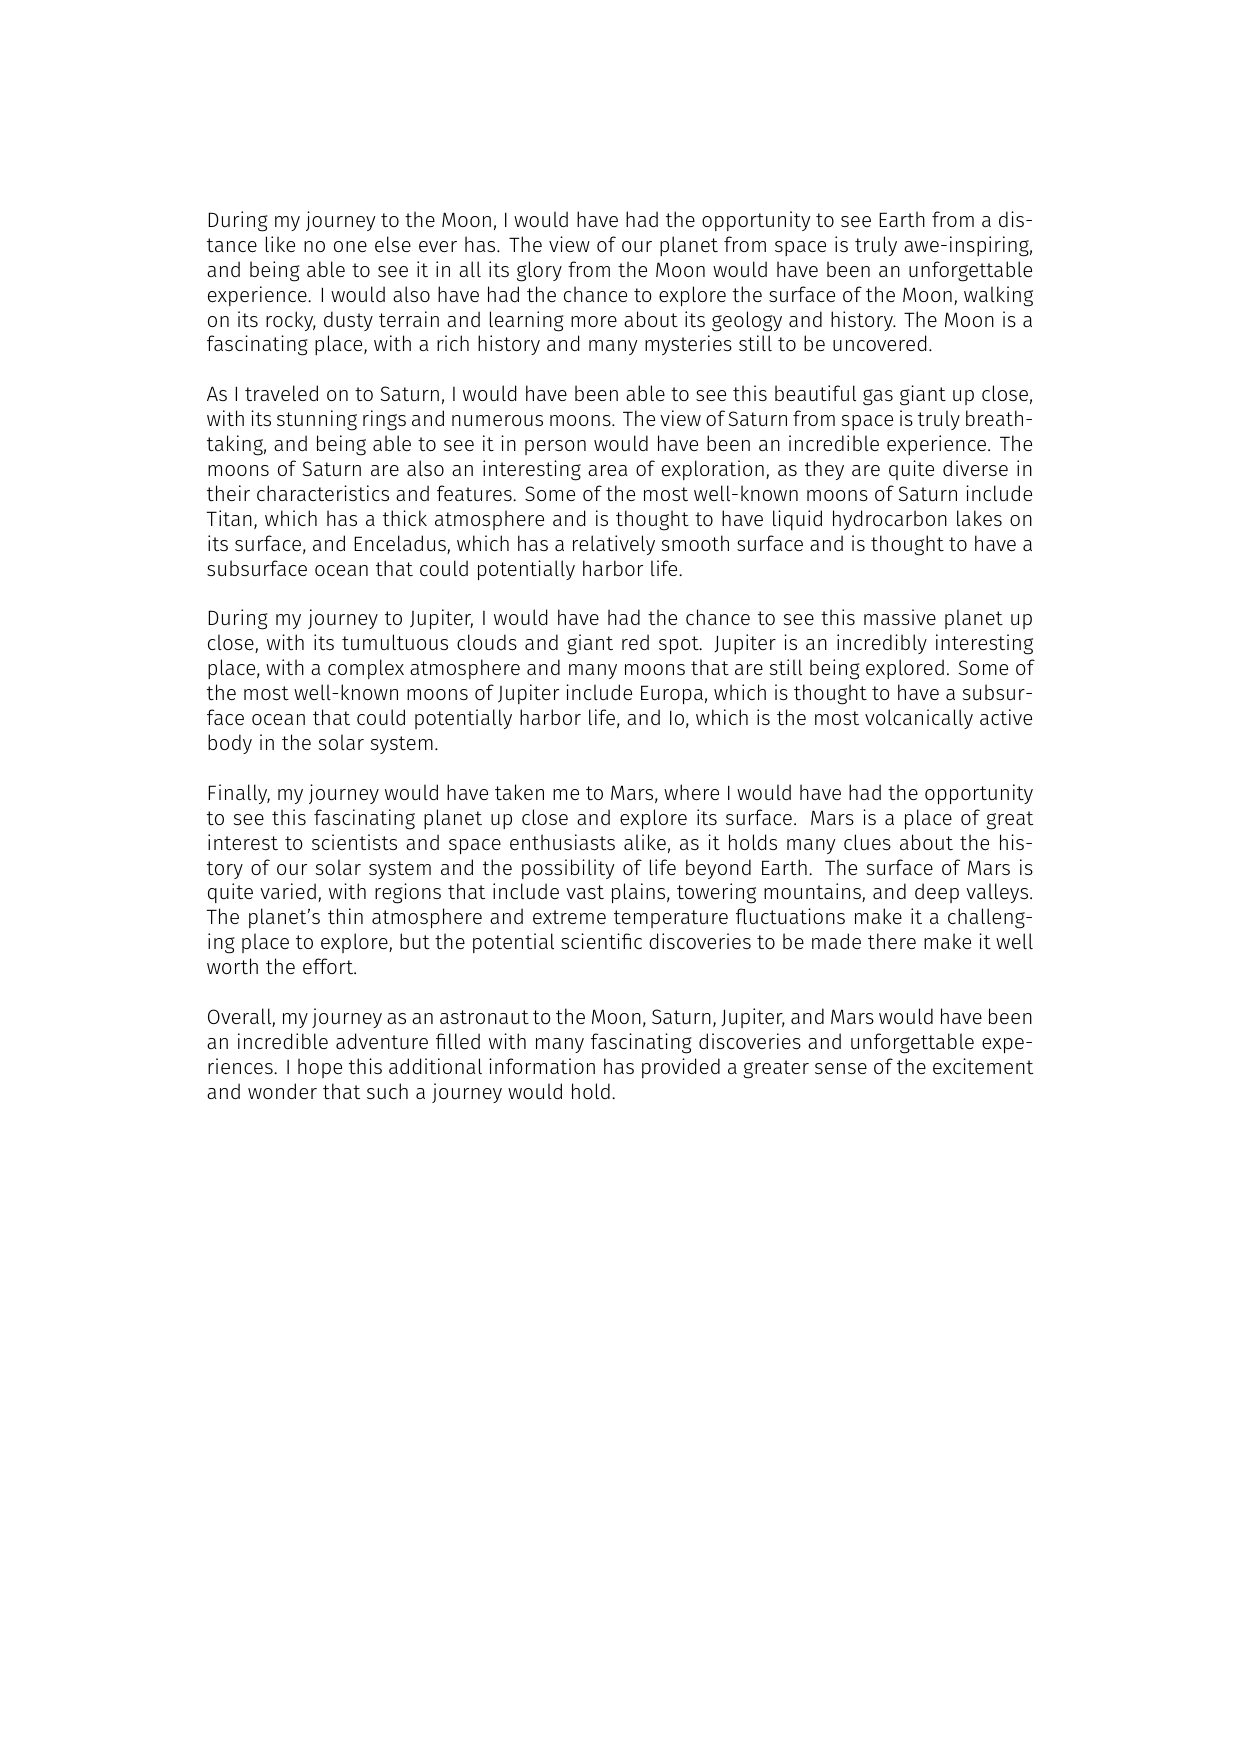
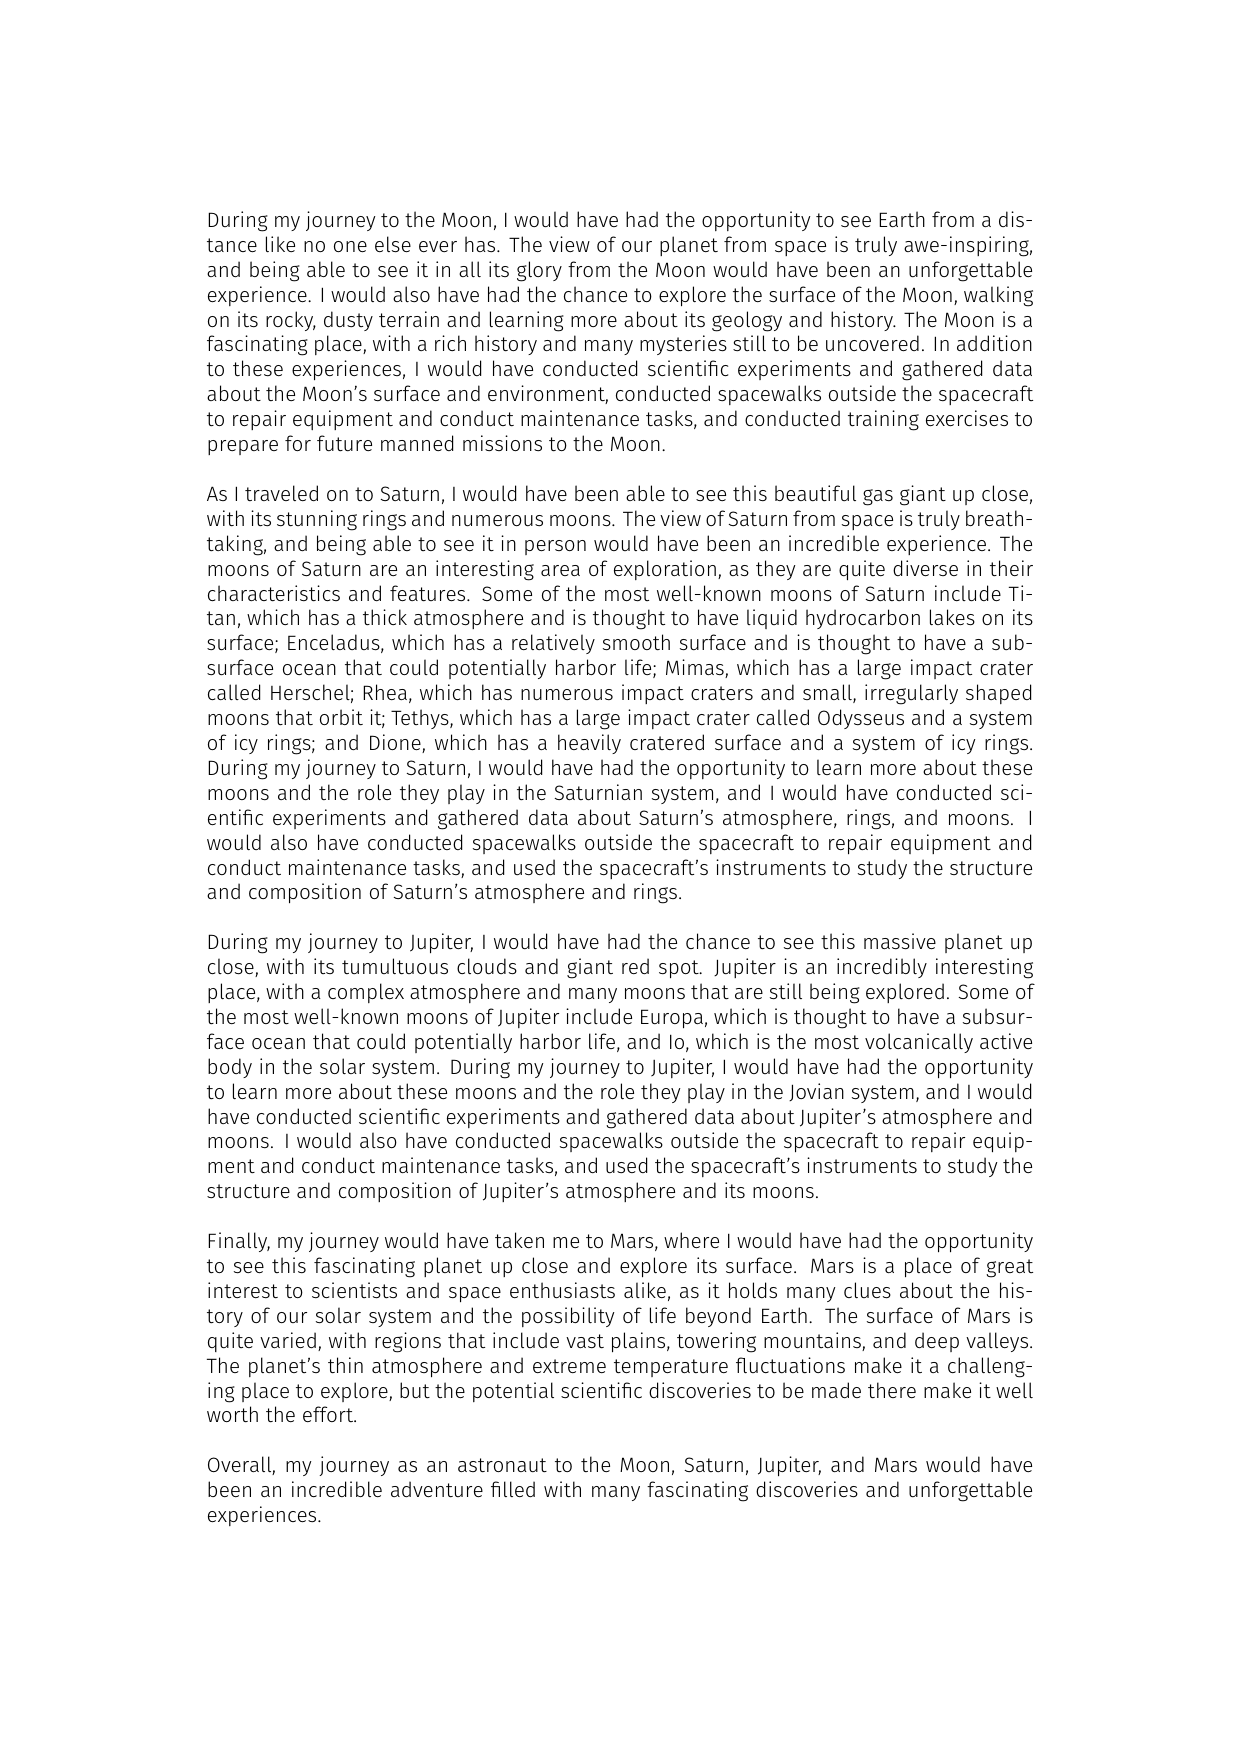
Update the cover letter

Changed region(s): [[0.1531, 0.1847, 0.8268, 0.862]]

diff --git a/example/doc/cover-letter.tex b/example/doc/cover-letter.tex
@@ -1,16 +1,16 @@
 \titleTwo[images/cv-pic.png][Cover Letter]
 
 
-During my journey to the Moon, I would have had the opportunity to see Earth from a distance like no one else ever has. The view of our planet from space is truly awe-inspiring, and being able to see it in all its glory from the Moon would have been an unforgettable experience. I would also have had the chance to explore the surface of the Moon, walking on its rocky, dusty terrain and learning more about its geology and history. The Moon is a fascinating place, with a rich history and many mysteries still to be uncovered. \\
+During my journey to the Moon, I would have had the opportunity to see Earth from a distance like no one else ever has. The view of our planet from space is truly awe-inspiring, and being able to see it in all its glory from the Moon would have been an unforgettable experience. I would also have had the chance to explore the surface of the Moon, walking on its rocky, dusty terrain and learning more about its geology and history. The Moon is a fascinating place, with a rich history and many mysteries still to be uncovered. In addition to these experiences, I would have conducted scientific experiments and gathered data about the Moon's surface and environment, conducted spacewalks outside the spacecraft to repair equipment and conduct maintenance tasks, and conducted training exercises to prepare for future manned missions to the Moon. \\
 
 
-As I traveled on to Saturn, I would have been able to see this beautiful gas giant up close, with its stunning rings and numerous moons. The view of Saturn from space is truly breathtaking, and being able to see it in person would have been an incredible experience. The moons of Saturn are also an interesting area of exploration, as they are quite diverse in their characteristics and features. Some of the most well-known moons of Saturn include Titan, which has a thick atmosphere and is thought to have liquid hydrocarbon lakes on its surface, and Enceladus, which has a relatively smooth surface and is thought to have a subsurface ocean that could potentially harbor life. \\
+As I traveled on to Saturn, I would have been able to see this beautiful gas giant up close, with its stunning rings and numerous moons. The view of Saturn from space is truly breathtaking, and being able to see it in person would have been an incredible experience. The moons of Saturn are an interesting area of exploration, as they are quite diverse in their characteristics and features. Some of the most well-known moons of Saturn include Titan, which has a thick atmosphere and is thought to have liquid hydrocarbon lakes on its surface; Enceladus, which has a relatively smooth surface and is thought to have a subsurface ocean that could potentially harbor life; Mimas, which has a large impact crater called Herschel; Rhea, which has numerous impact craters and small, irregularly shaped moons that orbit it; Tethys, which has a large impact crater called Odysseus and a system of icy rings; and Dione, which has a heavily cratered surface and a system of icy rings. During my journey to Saturn, I would have had the opportunity to learn more about these moons and the role they play in the Saturnian system, and I would have conducted scientific experiments and gathered data about Saturn's atmosphere, rings, and moons. I would also have conducted spacewalks outside the spacecraft to repair equipment and conduct maintenance tasks, and used the spacecraft's instruments to study the structure and composition of Saturn's atmosphere and rings. \\
 
 
-During my journey to Jupiter, I would have had the chance to see this massive planet up close, with its tumultuous clouds and giant red spot. Jupiter is an incredibly interesting place, with a complex atmosphere and many moons that are still being explored. Some of the most well-known moons of Jupiter include Europa, which is thought to have a subsurface ocean that could potentially harbor life, and Io, which is the most volcanically active body in the solar system. \\
+During my journey to Jupiter, I would have had the chance to see this massive planet up close, with its tumultuous clouds and giant red spot. Jupiter is an incredibly interesting place, with a complex atmosphere and many moons that are still being explored. Some of the most well-known moons of Jupiter include Europa, which is thought to have a subsurface ocean that could potentially harbor life, and Io, which is the most volcanically active body in the solar system. During my journey to Jupiter, I would have had the opportunity to learn more about these moons and the role they play in the Jovian system, and I would have conducted scientific experiments and gathered data about Jupiter's atmosphere and moons. I would also have conducted spacewalks outside the spacecraft to repair equipment and conduct maintenance tasks, and used the spacecraft's instruments to study the structure and composition of Jupiter's atmosphere and its moons. \\
 
 
 Finally, my journey would have taken me to Mars, where I would have had the opportunity to see this fascinating planet up close and explore its surface. Mars is a place of great interest to scientists and space enthusiasts alike, as it holds many clues about the history of our solar system and the possibility of life beyond Earth. The surface of Mars is quite varied, with regions that include vast plains, towering mountains, and deep valleys. The planet's thin atmosphere and extreme temperature fluctuations make it a challenging place to explore, but the potential scientific discoveries to be made there make it well worth the effort. \\
 
 
-Overall, my journey as an astronaut to the Moon, Saturn, Jupiter, and Mars would have been an incredible adventure filled with many fascinating discoveries and unforgettable experiences. I hope this additional information has provided a greater sense of the excitement and wonder that such a journey would hold.
+Overall, my journey as an astronaut to the Moon, Saturn, Jupiter, and Mars would have been an incredible adventure filled with many fascinating discoveries and unforgettable experiences.
